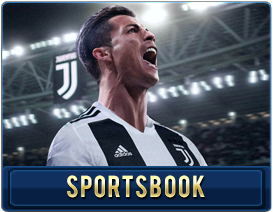
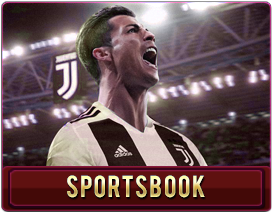
modify and add red theme color

diff --git a/liga95/css/app.css b/liga95/css/app.css
@@ -196,12 +196,12 @@ span.kontak.livechat {
 /* css new mainmenu */
 #mainmenu {
   /* border-right: 1px solid #1e0241; */
-  background: -webkit-linear-gradient(#18355e 50%, #102544 50%);
-  background: -o-linear-gradient(#18355e 50%, #102544 50%);
-  background: -moz-linear-gradient(#18355e 50%, #102544 50%);
-  background: linear-gradient(#18355e 50%, #102544 50%);
+  background: -webkit-linear-gradient(#6c1320 50%, #430907 50%);
+  background: -o-linear-gradient(#6c1320 50%, #430907 50%);
+  background: -moz-linear-gradient(#6c1320 50%, #430907 50%);
+  background: linear-gradient(#6c1320 50%, #430907 50%);
   border-radius: 10px 10px 0px 0px;
-  border: 2px solid #204f7f;
+  border: 2px solid #781636;
 }
 #mainmenu ul {
   margin: 0;
@@ -226,7 +226,7 @@ span.kontak.livechat {
   margin: 0;
 }
 #mainmenu ul li + li {
-  border-left: 1px solid #204f7f;
+  border-left: 1px solid #781636;
 }
 #mainmenu ul li a {
   display: block;
@@ -252,15 +252,11 @@ span.kontak.livechat {
   display: none;
   position: absolute;
   z-index: 987;
-  background: #204f7f;
+  background: #430907;
   white-space: nowrap;
-  left: -2px;
-  right: -2px;
 }
 #mainmenu ul li:hover ul {
-  display: flex;
-  justify-content: space-between;
-  align-items: flex-end;
+  display: block;
 }
 #mainmenu ul ul li {
   font-size: 0.75rem;
@@ -279,7 +275,7 @@ span.kontak.livechat {
   display: flex;
   justify-content: space-between;
   align-items: center;
-  border: 1px solid #204f7f;
+  border: 1px solid #781636;
   border-radius: 4px;
   overflow: hidden;
   white-space: nowrap;
@@ -339,14 +335,14 @@ span.kontak.livechat {
 }
 
 .table-container {
-  background: linear-gradient(#18355e 50%, #102544 50%);
+  background: linear-gradient(#6c1320 50%, #430907 50%);
   padding: 1.875rem;
-  border: 1px solid #205183;
+  border: 1px solid #781636;
   margin-bottom: 1rem;
 }
 .panel {
-  background: #0c101d !important;
-  border: 1px solid #1f5083;
+  background: #29040d !important;
+  border: 1px solid #781636;
   border-radius: 4px;
   box-shadow: 0 0 0px 0px rgba(0, 0, 0, 0.65), 0px 0px 0 0 rgba(255, 255, 255, 0.08),
     0px 0px 0 0 rgba(255, 255, 255, 0.1);
@@ -363,11 +359,11 @@ span.kontak.livechat {
   line-height: 3;
   border-radius: 4px;
   text-transform: uppercase;
-  background: #0f1733;
-  background: -webkit-linear-gradient(#18355e 50%, #102544 50%);
-  background: -o-linear-gradient(#18355e 50%, #102544 50%);
-  background: -moz-linear-gradient(#18355e 50%, #102544 50%);
-  background: linear-gradient(#18355e 50%, #102544 50%);
+  background: #29040d;
+  background: -webkit-linear-gradient(#6c1320 50%, #430907 50%);
+  background: -o-linear-gradient(#6c1320 50%, #430907 50%);
+  background: -moz-linear-gradient(#6c1320 50%, #430907 50%);
+  background: linear-gradient(#6c1320 50%, #430907 50%);
   margin: 0;
   display: flex;
   justify-content: center;
@@ -398,7 +394,7 @@ span.kontak.livechat {
   line-height: 28px;
 }
 .panel table tr {
-  border-bottom: 1px solid #234862 !important;
+  border-bottom: 1px solid #781636 !important;
 }
 .panel table tbody tr:last-child {
   border: none !important;
@@ -429,7 +425,7 @@ span.kontak.livechat {
   left: 10px;
   text-decoration: none;
   color: #fdfdfd;
-  background-color: #18355e;
+  background-color: #6c1320;
   font-size: 12px;
   padding: 5px 10px 5px 10px;
   border-color: #747b82;

diff --git a/liga95/index.html b/liga95/index.html
@@ -21,7 +21,7 @@
           <div class="cell shrink">
             <div class="logo">
               <a href="#">
-                <img src="images/logo.gif" alt="LOGO">
+                <img src="images/logo.jpg" alt="LOGO">
               </a>
             </div>
           </div>
@@ -150,10 +150,10 @@
           <div class="main-slider">
             <div class="slider-wrapper theme-default">
               <div id="slider" class="nivoSlider">
-                <a href="https://www.ervandra.com"><img src="images/depo-wd.jpeg" data-thumb="images/depo-wd.jpeg"
-                    alt="" title="This is an example of a caption" /></a>
-                <img src="images/comission.jpeg" data-thumb="images/comission.jpeg" alt="" />
-                <img src="images/cashback-sportsbook.jpeg" data-thumb="images/cashback-sportsbook.jpeg" alt="" />
+                <a href="https://www.ervandra.com"><img src="images/depo-wd.jpg" data-thumb="images/depo-wd.jpg" alt=""
+                    title="This is an example of a caption" /></a>
+                <img src="images/comission.jpg" data-thumb="images/comission.jpg" alt="" />
+                <img src="images/cashback-sportsbook.jpg" data-thumb="images/cashback-sportsbook.jpg" alt="" />
 
               </div>
               <div id="htmlcaption" class="nivo-html-caption">
